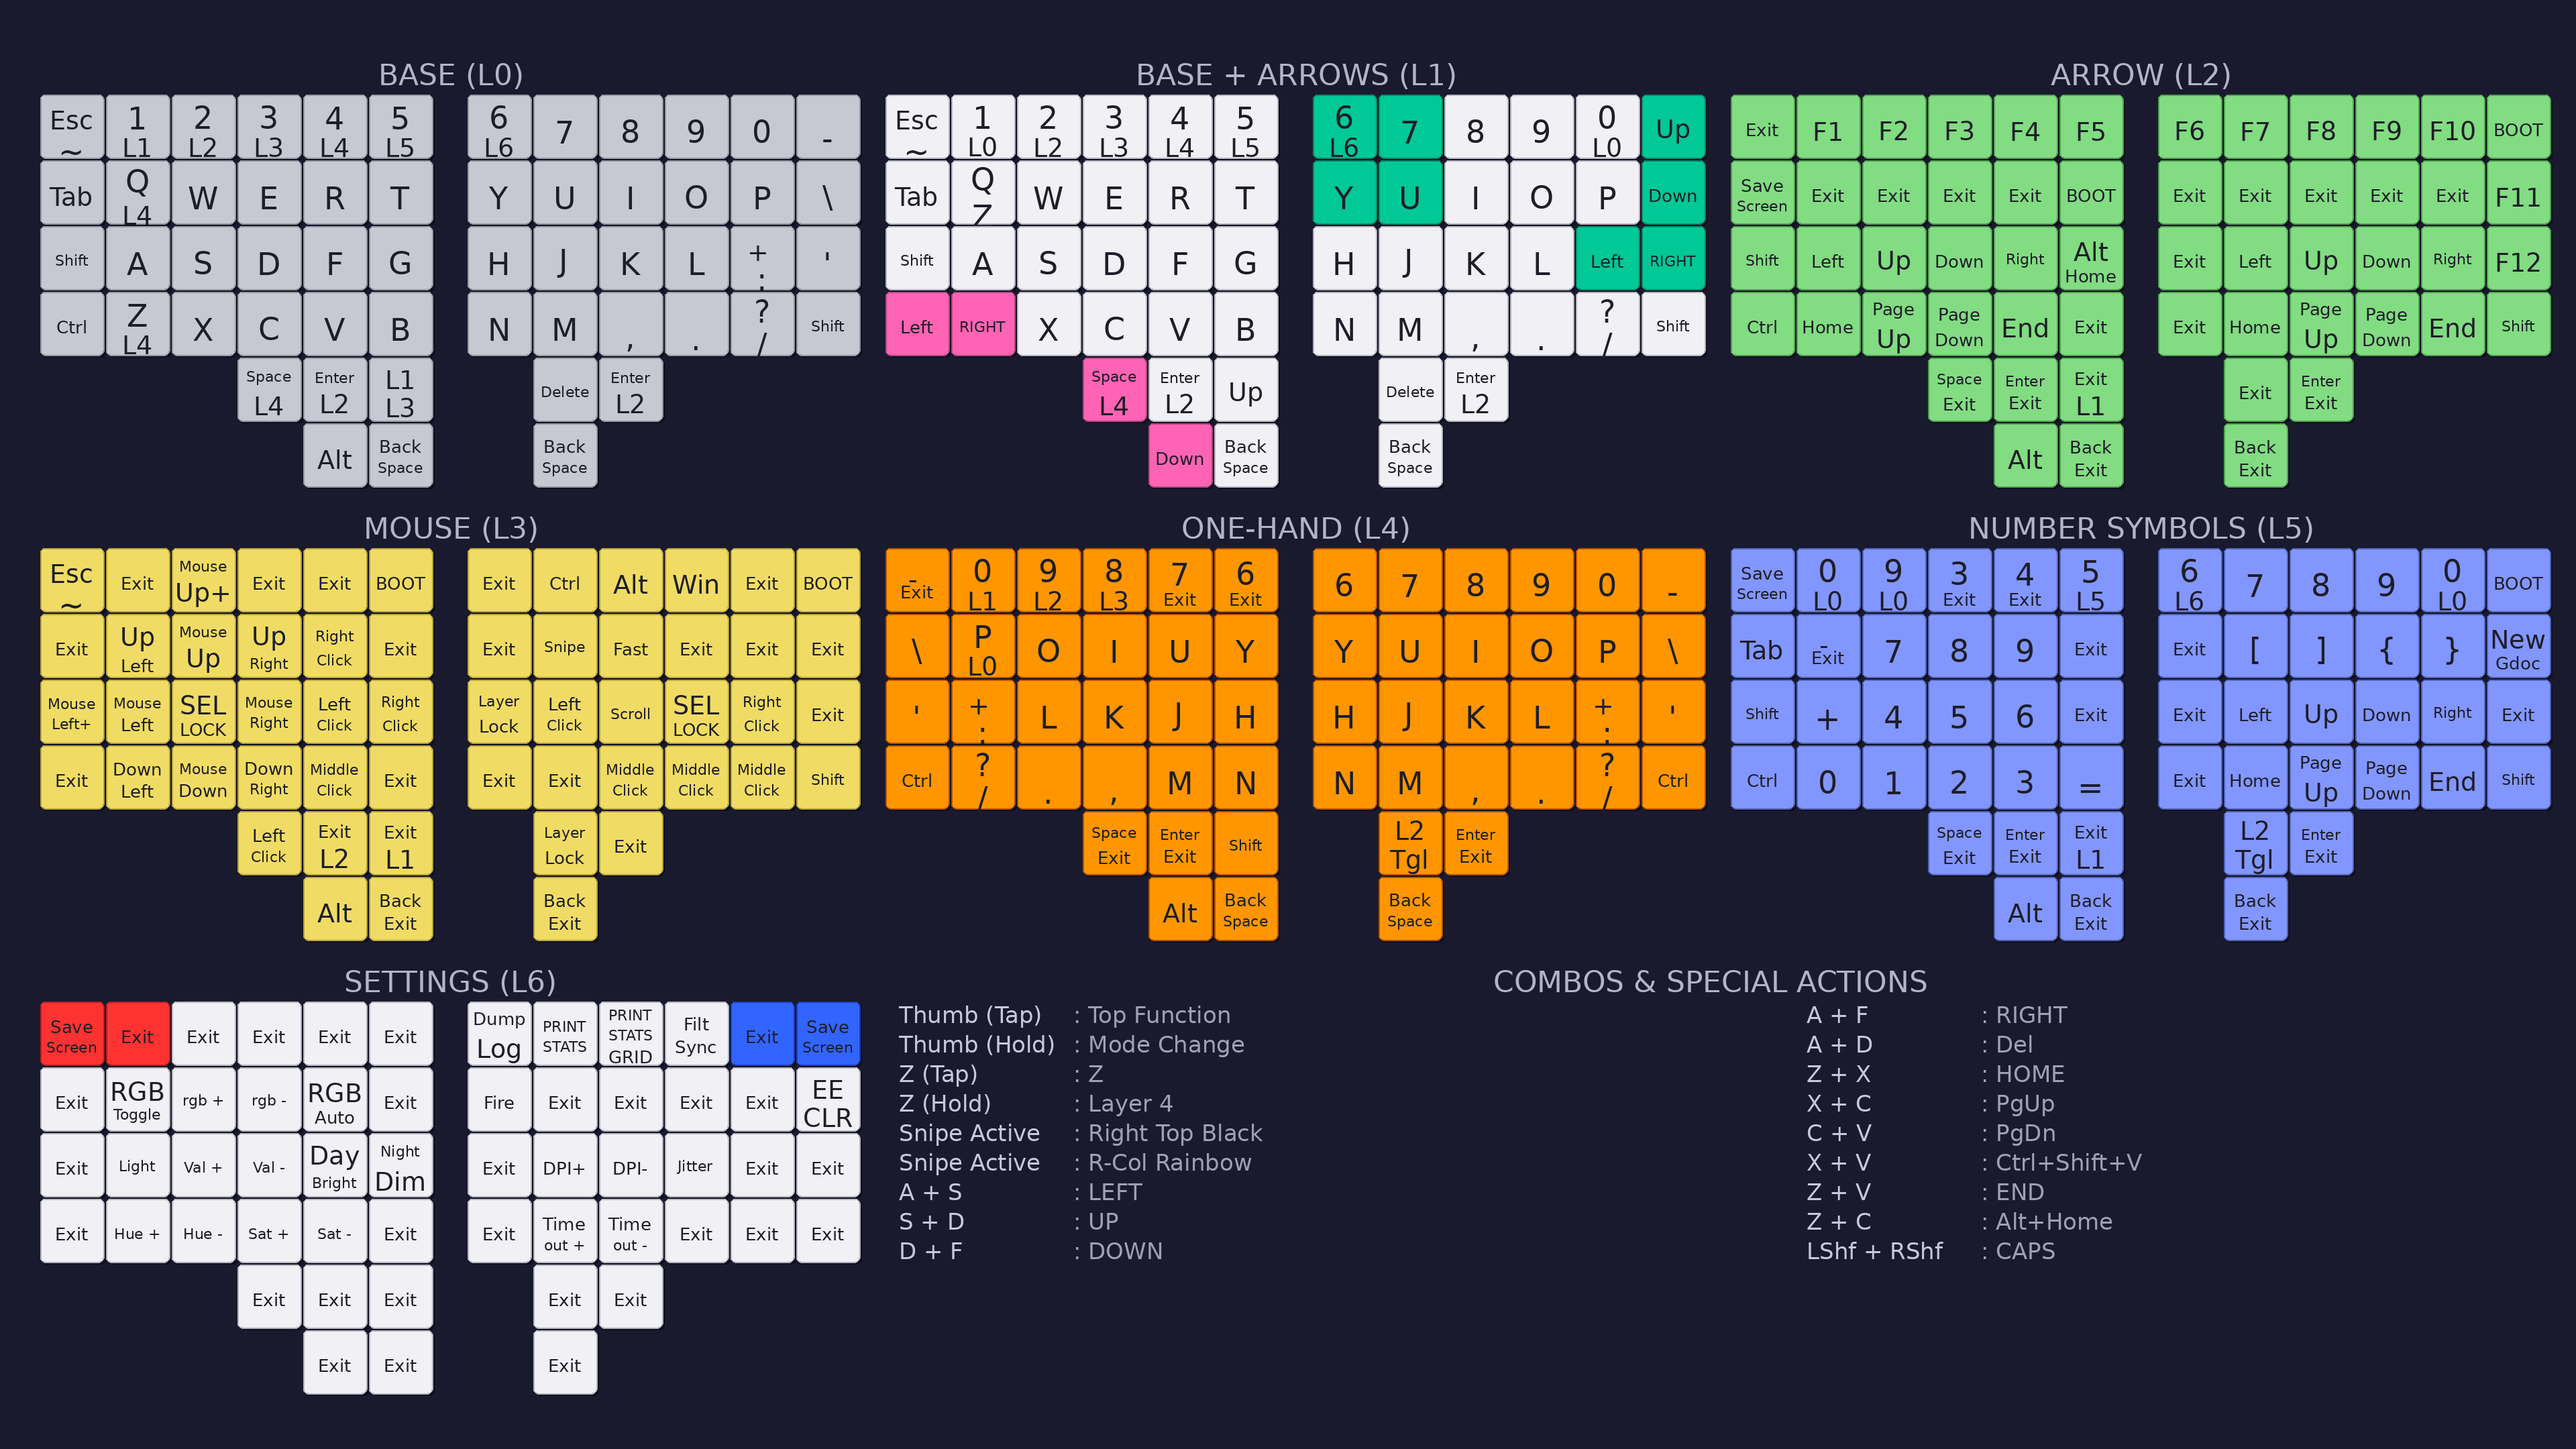
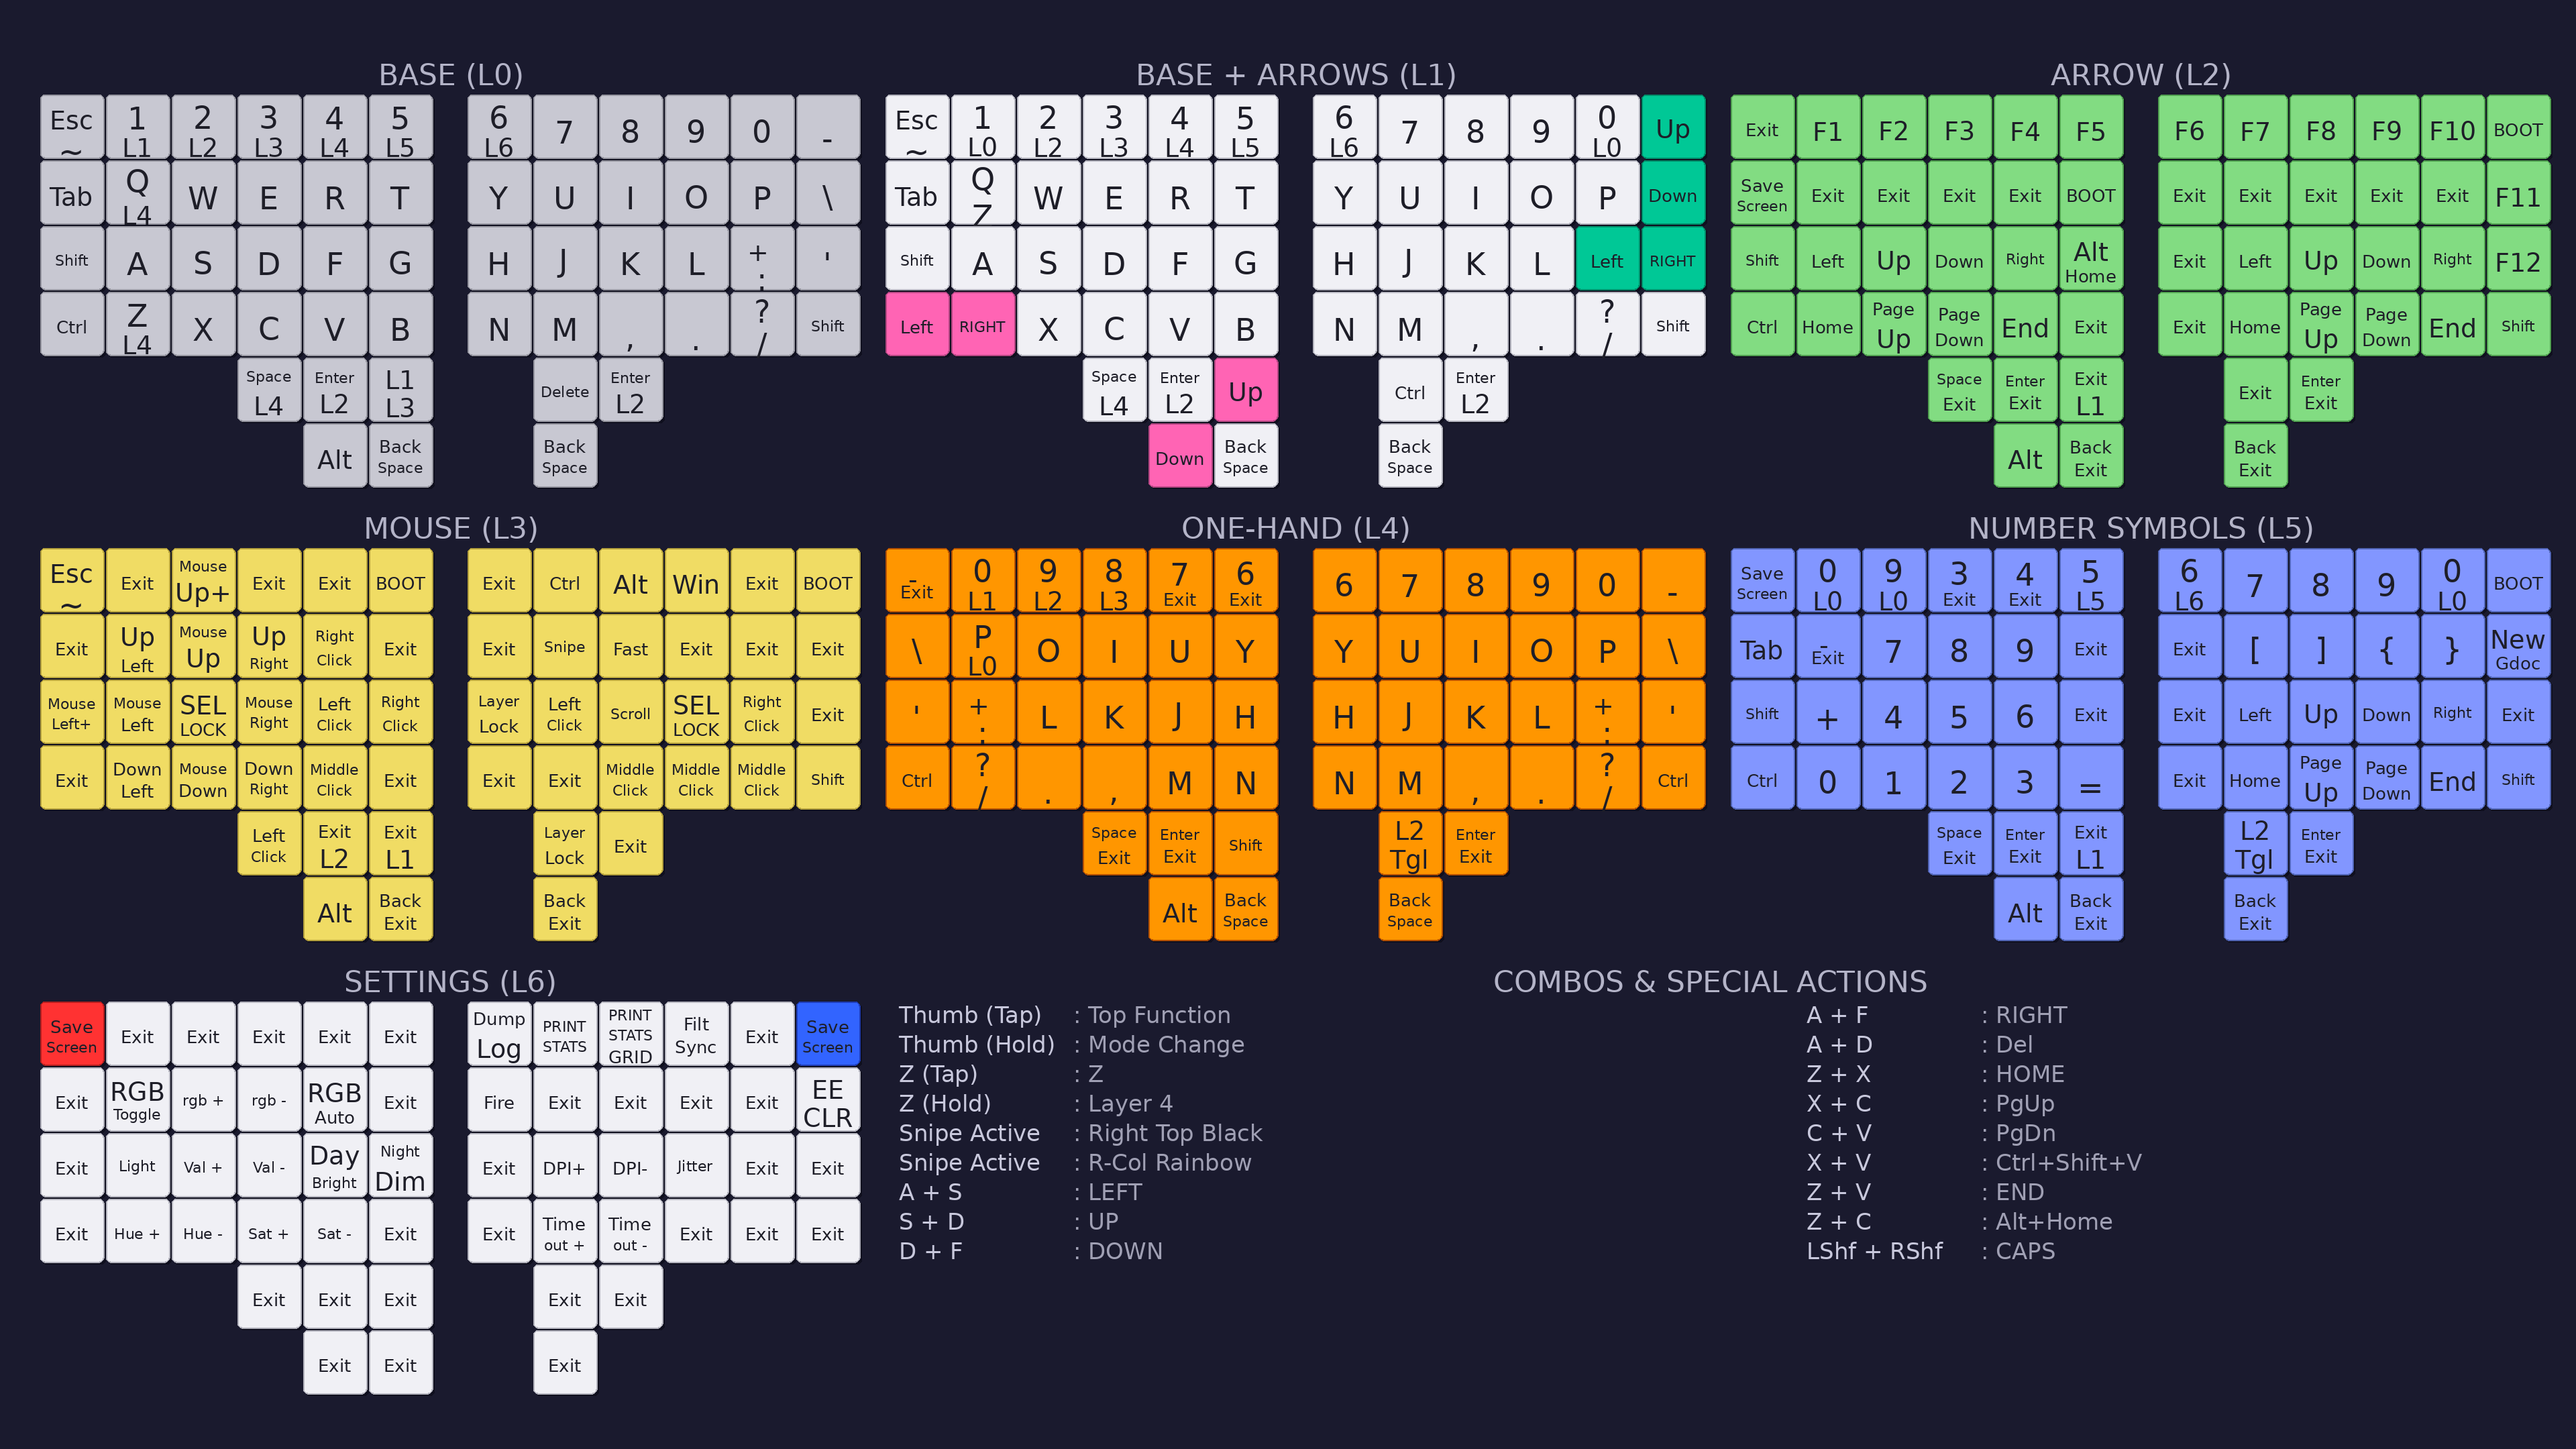
feat: add custom L1 arrow logic, update RGB/layout, and add CLAUDE.md

diff --git a/keymap/keymap.c b/keymap/keymap.c
@@ -253,6 +253,126 @@ layer_state_t layer_state_set_user(layer_state_t state) {
   return state;
 }
 
+static bool handle_l1_arrow_overrides(uint16_t keycode, keyrecord_t *record) {
+  // Only apply on Layer 1
+  if (get_highest_layer(layer_state) != 1)
+    return true;
+
+  // Only on press
+  if (!record->event.pressed)
+    return true;
+
+  uint8_t mods = get_mods();
+  bool shift_held = mods & MOD_MASK_SHIFT;
+  bool ctrl_held = mods & MOD_MASK_CTRL;
+
+  if (!shift_held && !ctrl_held)
+    return true;
+
+  // Distinguish Left Side (Rows 0-4) vs Right Side (Rows 5-9)
+  bool is_right_side = (record->event.key.row >= 5);
+
+  if (is_right_side) {
+    switch (keycode) {
+    case KC_LEFT: // Position of KC_PLUS_COLON (+ / :)
+      if (shift_held) {
+        tap_code(KC_SCLN); // Shift held -> :
+        return false;
+      }
+      if (ctrl_held) {
+        unregister_mods(MOD_MASK_CTRL);
+        tap_code16(S(KC_EQL)); // +
+        register_mods(mods & MOD_MASK_CTRL);
+        return false;
+      }
+      break;
+
+    case KC_RIGHT: // Position of KC_QUOT (' / ")
+      if (shift_held) {
+        tap_code(KC_QUOT); // Shift held -> "
+        return false;
+      }
+      if (ctrl_held) {
+        unregister_mods(MOD_MASK_CTRL);
+        tap_code(KC_QUOT); // '
+        register_mods(mods & MOD_MASK_CTRL);
+        return false;
+      }
+      break;
+
+    case KC_UP: // Position of KC_MINS (- / _)
+      if (shift_held) {
+        tap_code(KC_MINS); // Shift held -> _
+        return false;
+      }
+      if (ctrl_held) {
+        unregister_mods(MOD_MASK_CTRL);
+        tap_code(KC_MINS); // -
+        register_mods(mods & MOD_MASK_CTRL);
+        return false;
+      }
+      break;
+
+    case KC_DOWN: // Position of KC_BSLS (\ / |)
+      if (shift_held) {
+        tap_code(KC_BSLS); // Shift held -> |
+        return false;
+      }
+      if (ctrl_held) {
+        unregister_mods(MOD_MASK_CTRL);
+        tap_code(KC_BSLS); // Backslash
+        register_mods(mods & MOD_MASK_CTRL);
+        return false;
+      }
+      break;
+    }
+  } else {
+    // Left Side Arrows
+    switch (keycode) {
+    case KC_RIGHT: // Position of KC_Z (L0: TD_Z_LAYER -> Z)
+      if (shift_held) {
+        // Shift + Z -> Z
+        tap_code(KC_Z);
+        return false;
+      }
+      if (ctrl_held) {
+        // Ctrl + Arrow -> Unshifted 'z'
+        unregister_mods(MOD_MASK_CTRL);
+        tap_code(KC_Z);
+        register_mods(mods & MOD_MASK_CTRL);
+        return false;
+      }
+      break;
+      
+    case KC_LEFT: // Position of KC_LCTL
+      if (shift_held || ctrl_held) {
+        // Map to LCTL (Modifier tap usually does nothing, but preserving intent)
+        tap_code(KC_LCTL); 
+        return false;
+      }
+      break;
+
+    case KC_UP: // Position of KC_L1_L3
+      if (shift_held || ctrl_held) {
+         // Map to L1_L3 Tap Action (Toggle Layer 1)
+         layer_invert(1);
+         return false;
+      }
+      break;
+
+    case KC_DOWN: // Position of KC_LALT
+      if (shift_held || ctrl_held) {
+        // Map to LALT
+        tap_code(KC_LALT);
+        return false;
+      }
+      break;
+    }
+  }
+
+  return true;
+}
+
 bool process_record_user(uint16_t keycode, keyrecord_t *record) {
   process_statistics(record);
   update_mouse_button_state(keycode, record->event.pressed);
@@ -387,6 +507,15 @@ bool process_record_user(uint16_t keycode, keyrecord_t *record) {
   }
 
   switch (keycode) {
+  case KC_LEFT:
+  case KC_RIGHT:
+  case KC_UP:
+  case KC_DOWN:
+    if (!handle_l1_arrow_overrides(keycode, record)) {
+      return false;
+    }
+    break;
+
   case KC_EXIT:
     if (record->event.pressed) {
       layer_history_pop();

diff --git a/scripts/layout_common.py b/scripts/layout_common.py
@@ -625,23 +625,39 @@ def get_themed_colors_for_key(layer_num, x, y, use_255=False):
     """
     Get the background and border colors for a key based on layer themes.
     Returns (bg_color, border_color) or (None, None) if no special theme applies.
+
+    Coordinate reference (after shifts applied in parse_info_json):
+    - Left main: x=0-5, y=0-3
+    - Left thumb: y=4 (top row), y=5 (bottom row)
+      - After thumb_shift_left=2.0: UP at x=5 (y=4), DOWN at x=4 (y=5)
+    - Right main: after right_main_shift (4.0 PDF, 4.5 wallpaper)
+      - Rightmost column: x>11 (catches 11.5 wallpaper, 12 PDF)
+      - Second rightmost: x>10
     """
-    # Layer 1: Arrow keys police theme (pink/cyan)
-    # Right side original x values: 7,8,9,10,11 - only x>=11 gets shifted to ~6.5
-    # So rightmost is either x>=11 (unshifted) or 6<x<7 (shifted)
+    # Layer 1: Arrow keys theme (pink for left, cyan for right)
     if layer_num == 1:
-        # Left side arrows (pink): row 3 leftmost 2 keys (LEFT, RIGHT at x<2)
-        # Thumb arrows: row 4-5 specific positions for UP, DOWN
-        is_left_arrow = (y == 3 and x < 2) or (y == 4 and 2 <= x <= 3) or (y == 5 and 2 <= x <= 4)
+        # Left side arrows (pink):
+        # - Row 3, leftmost 2 keys (LEFT, RIGHT at x=0,1)
+        # - Thumb UP at y=4, x=5 (after shift)
+        # - Thumb DOWN at y=5, x=4 (after shift)
+        is_left_arrow = (
+            (y == 3 and x < 2) or      # LEFT, RIGHT on bottom row
+            (y == 4 and 4.5 < x < 5.5) or  # UP on thumb top row (x=5)
+            (y == 5 and 3.5 < x < 4.5)     # DOWN on thumb bottom row (x=4)
+        )
 
         # Right side arrows (cyan): rightmost column(s) only
-        # Rightmost key: x >= 11 (unshifted) or 6 < x < 8 (shifted from x=11)
-        # Row 0-1: only rightmost (UP, DOWN)
-        # Row 2: rightmost 2 (LEFT at x=10, RIGHT at x=11 or shifted)
-        is_rightmost = (x >= 11) or (6 < x < 8)
-        is_second_rightmost = (x >= 10) or (5 < x < 6.5)
+        # After shift: rightmost is x>11, second rightmost is x>10
+        # Row 0: UP (rightmost only)
+        # Row 1: DOWN (rightmost only)
+        # Row 2: LEFT (second rightmost), RIGHT (rightmost)
+        is_rightmost = x > 11
+        is_second_rightmost = x > 10
 
-        is_right_arrow = ((y == 0 or y == 1) and is_rightmost) or (y == 2 and is_second_rightmost)
+        is_right_arrow = (
+            ((y == 0 or y == 1) and is_rightmost) or
+            (y == 2 and is_second_rightmost)
+        )
 
         if is_left_arrow:
             if use_255:
@@ -656,12 +672,12 @@ def get_themed_colors_for_key(layer_num, x, y, use_255=False):
     if y != 0:  # Only top row gets themed colors for other layers
         return None, None
 
-    if layer_num == 6:  # Police theme
-        if x <= 1:
+    if layer_num == 6:  # Police theme - only corner keys
+        if x == 0:  # Left top corner (Esc) - red
             if use_255:
                 return L6_RED_255, L6_RED_BORDER
             return L6_RED_NORM, None
-        elif x >= 10:
+        elif x > 11:  # Right top corner (Minus) - blue
             if use_255:
                 return L6_BLUE_255, L6_BLUE_BORDER
             return L6_BLUE_NORM, None

diff --git a/keymap/features/rgb.c b/keymap/features/rgb.c
@@ -179,14 +179,14 @@ bool housekeeping_rgb_indicators(void) {
   case 1: {
     bool phase = (timer_read() / 500) % 2;
     if (is_keyboard_left()) {
-      // Left Keys: LCTL(3), Q(6), Thumbs(24-28)
-      static const uint8_t left_leds[] = {3, 6, 24, 25, 26, 27, 28};
+      // Left Arrows: LEFT(3), RIGHT(4), UP(28), DOWN(25)
+      static const uint8_t left_leds[] = {3, 4, 28, 25};
       for (int i = 0; i < sizeof(left_leds) / sizeof(left_leds[0]); i++) {
          if (phase) rgb_matrix_set_color(left_leds[i], 255, 0, 255); // Pink
          else       rgb_matrix_set_color(left_leds[i], 0, 255, 0);   // Green
       }
     } else {
-      // Right Keys: 0, 1, 2, 5 (Existing Arrows)
+      // Right Arrows: UP(0), DOWN(1), LEFT(2), RIGHT(5)
       static const uint8_t right_leds[] = {0, 1, 2, 5};
       for (int i = 0; i < sizeof(right_leds) / sizeof(right_leds[0]); i++) {
          if (phase) rgb_matrix_set_color(right_leds[i], 0, 255, 0);   // Green

diff --git a/keymap/features/sync.c b/keymap/features/sync.c
@@ -154,6 +154,7 @@ void debug_dump_sync_state(void) {
   uint32_t since_sync = last_sync_time > 0 ? timer_elapsed32(last_sync_time) : 0;
 
   uprintf("\n\033[95m========== SYNC STATE DUMP ==========\033[0m\n");
+  uprintf("Build: %s %s\n", __DATE__, __TIME__);
   LOG_TIME();
   uprintf("Role: %s\n", is_keyboard_master() ? "MASTER" : "SLAVE");
   uprintf("Hand: %s\n", is_keyboard_left() ? "LEFT" : "RIGHT");

diff --git a/CLAUDE.md b/CLAUDE.md
@@ -1,0 +1,28 @@
+# Claude Memory - Mech Keyboard Project
+
+## Documentation Generation
+
+The wallpaper and PDF layout documentation are generated from Python scripts, not manually created:
+
+- `scripts/generate_wallpaper.py` - Generates `wallpaper.png` (desktop wallpaper showing all layers)
+- `scripts/generate_layout_pdf.py` - Generates `charybdis_layout.pdf` (printable PDF of layouts)
+- `scripts/layout_common.py` - Shared code: colors, key labels, parsing, and `get_themed_colors_for_key()` for layer-specific highlighting
+
+When updating RGB indicators in `keymap/features/rgb.c`, also update the corresponding color logic in `scripts/layout_common.py` to keep documentation in sync.
+
+Regenerate after changes:
+```bash
+python3 scripts/generate_wallpaper.py && python3 scripts/generate_layout_pdf.py
+```
+
+## LED Layout Reference
+
+Left half LEDs (local indices 0-28):
+- Main keys snake through columns: Col0 (0,1,2,3), Col1 (7,6,5,4), etc.
+- Thumb cluster: 24=inner bottom, 25=outer bottom, 26=outer top, 27=middle top, 28=inner top
+
+Right half LEDs (local indices 0-28, same pattern mirrored)
+
+## Build Verification
+
+Build timestamp is printed in debug sync dump (`KC_DUMP_LOG` on L6) to verify firmware version.
